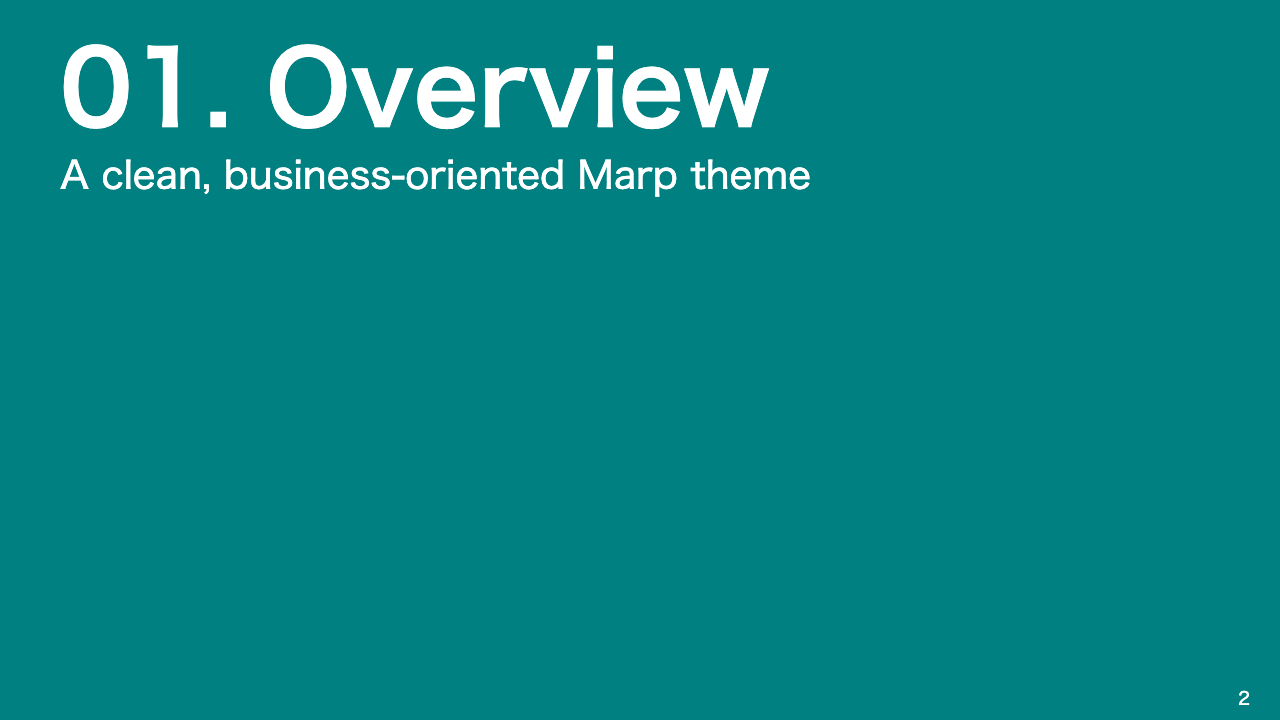
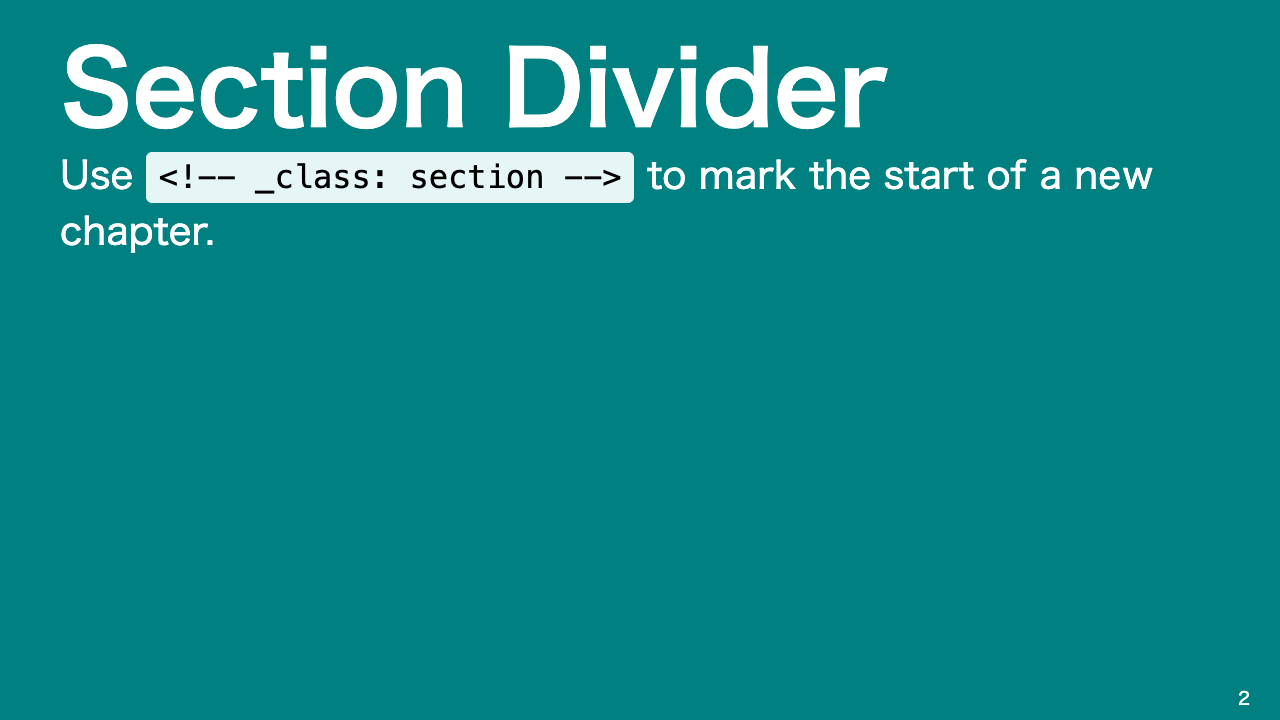
Fix incoherent section divider example
The previous "01. Overview / A clean, business-oriented Marp theme"
mixed a section title with a theme tagline. Replace with a self-explanatory
"Section Divider" demo so the preview clearly shows what the class does.

Changed region(s): [[0.0312, 0.0611, 0.7188, 0.1833], [0.0312, 0.2139, 0.9062, 0.3667]]

diff --git a/example.md b/example.md
@@ -11,9 +11,9 @@ paginate: true
 
 <!-- _class: section -->
 
-# 01. Overview
+# Section Divider
 
-A clean, business-oriented Marp theme
+Use `<!-- _class: section -->` to mark the start of a new chapter.
 
 ---
 
@@ -87,14 +87,6 @@ A clean, business-oriented Marp theme
 > they are an interface to your thinking."
 
 Use blockquotes for pull quotes, customer voices, and callouts.
-
----
-
-<!-- _class: section -->
-
-# 02. Get Started
-
-`theme: umino-biz` in your frontmatter
 
 ---
 
